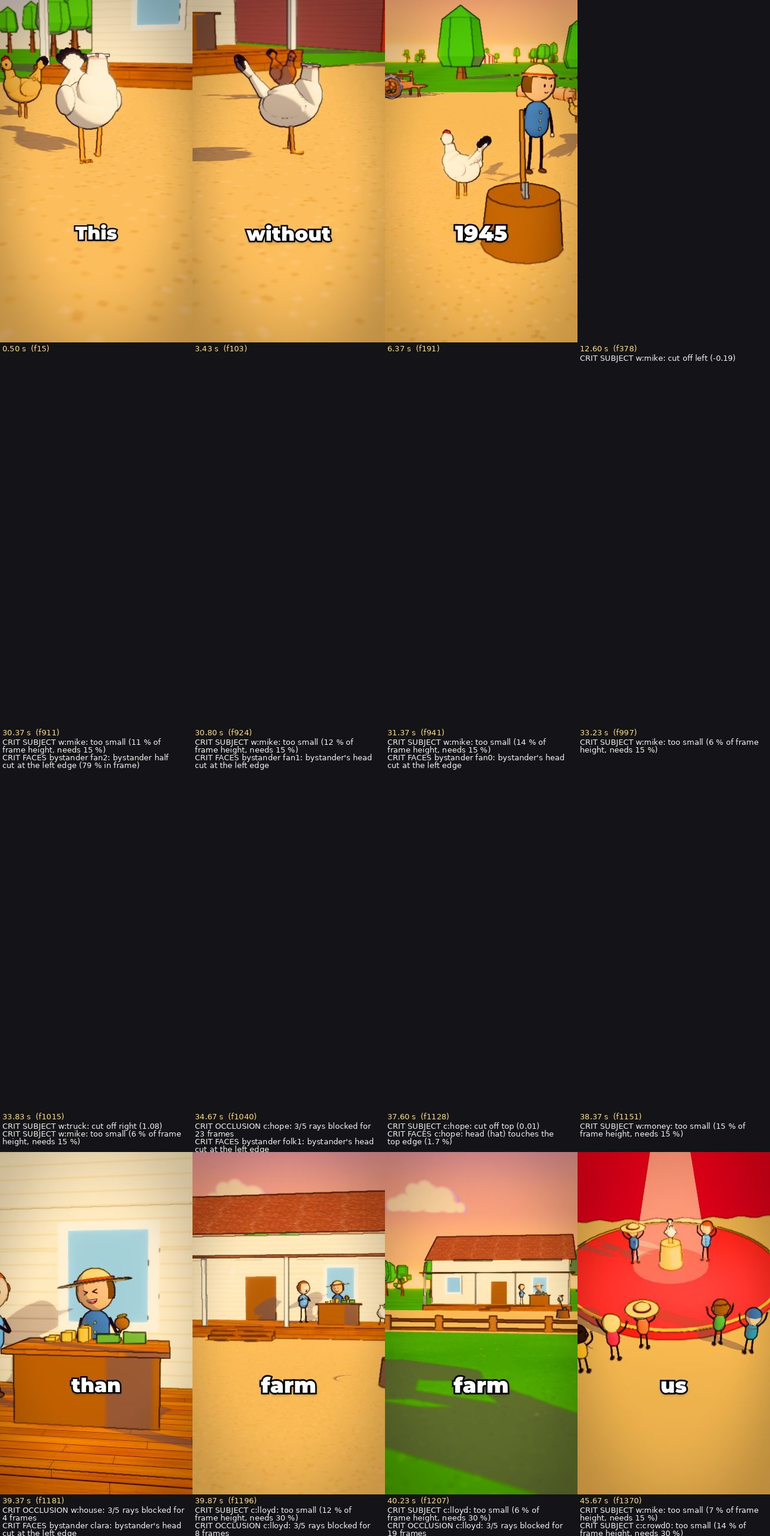
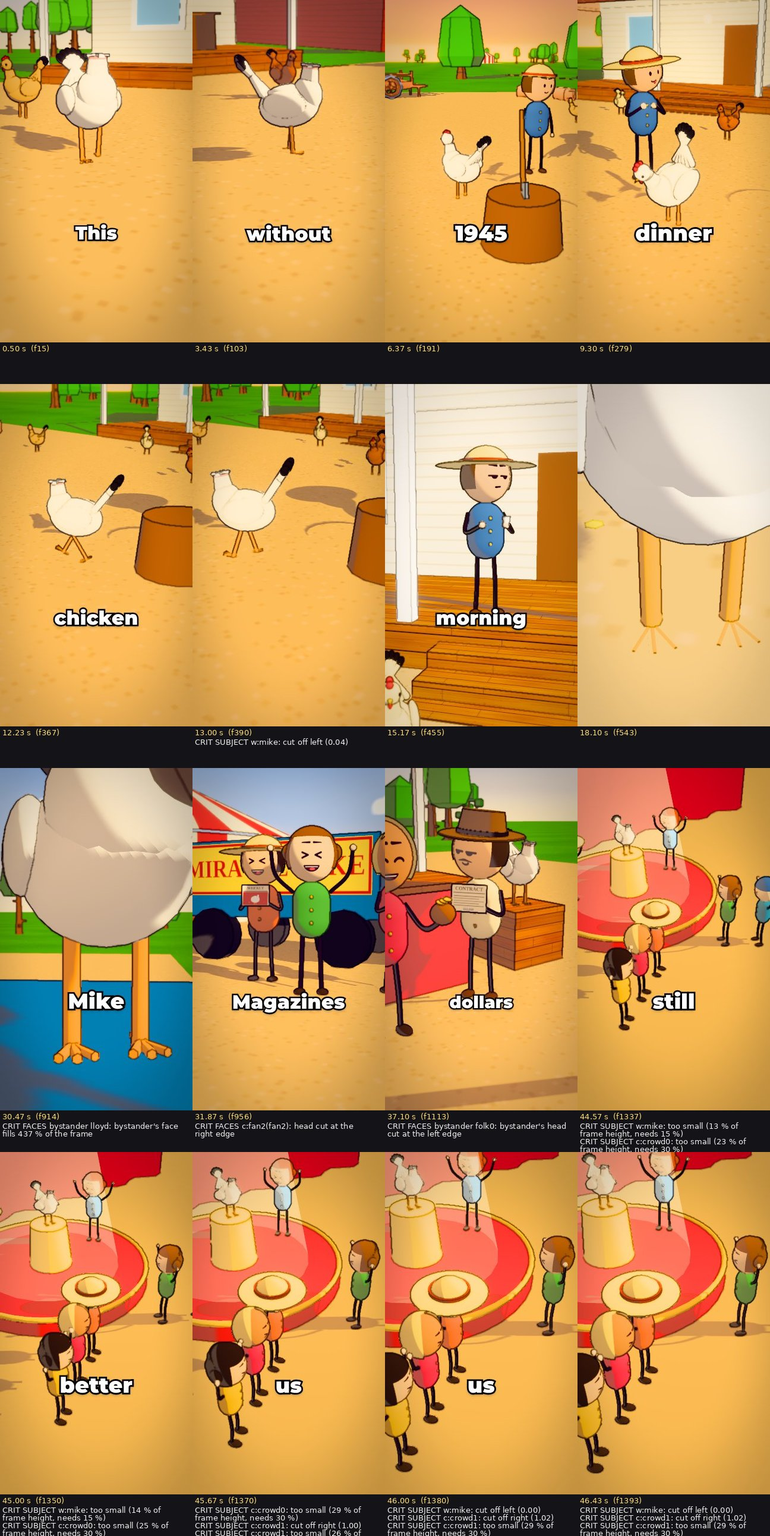
ChickenShort: guard round 3 fixes (no cab close-up, two fans, queue tighter, smaller crowd)
Claude-Session: https://claude.ai/code/session_012QSShdiUFjV1rrFH5PNZza

diff --git a/video/src/videos/chicken/stage.ts b/video/src/videos/chicken/stage.ts
@@ -91,8 +91,7 @@ const kitchen = (t: number, s: Stage) => {
 const truck = (t: number, s: Stage) => {
   if (!between(t, wt(7) - LEAD, wt(8) - LEAD)) return;
   const mags = after(t, 7, "Magazines"), x = truckX(t);
-  for (let i = 0; i < 3; i++) s.places.push(P(`fan${i}`, FOLK(i), { expr: mags ? "laugh" : "grin", gest: mags ? (i === 1 ? "cheer" : "paper") : "cheer", k: q((t * 2 + i * 0.3) % 1, 8), blink: blinkAt(t, 10 + i) }, mags && i !== 1 ? { paper: "mag" } : {}, V(TRUCK.x - 0.2 + i * 0.8, 0, TRUCK.z + 2.3 + (i % 2) * 0.45), { turn: (i - 1) * 0.3 }));
-  s.places.push(P("lloyd", LLOYD, { expr: "grin", gest: "wave", k: q((t * 2.5) % 1, 10), blink: blinkAt(t, 1) }, {}, V(x + 2.2, 1.0, TRUCK.z + 0.75), { yaw: 0.5 }));   // waving from the cab window
+  for (let i = 0; i < 2; i++) s.places.push(P(`fan${i}`, FOLK(i), { expr: mags ? "laugh" : "grin", gest: mags ? "paper" : "cheer", k: q((t * 2 + i * 0.3) % 1, 8), blink: blinkAt(t, 10 + i) }, mags ? { paper: "mag" } : {}, V(TRUCK.x + 0.3 + i * 0.85, 0, TRUCK.z + 2.3 + (i % 2) * 0.35), { turn: (i - 1) * 0.3 }));
   fill(s, V(x, 1.4, TRUCK.z), 1.0);
 };
 // line 8: the queue pays Hope Wade at the booth, 25 cents a look; "Insured...": he flourishes the contract
@@ -101,7 +100,7 @@ const booth = (t: number, s: Stage) => {
   const ins = after(t, 8, "Insured"), b = BOOTH;
   s.places.push(P("hope", HOPE, { expr: ins ? "smug" : "grin", gest: ins ? "paper" : "palm", blink: blinkAt(t, 5), headTilt: ins ? -6 : 4, look: -1 }, ins ? { paper: "contract" } : { coins: true }, V(b.x + 0.75, 0, b.z + 0.75), { turn: -0.35 }));
   for (let i = 0; i < 4; i++) { const pay = i === 0;
-    s.places.push(P(`folk${i}`, FOLK(i + 2), { expr: pay ? "grin" : i % 2 ? "shock" : "smile", gest: pay ? "palm" : i % 2 ? "point" : "hang", blink: blinkAt(t, 20 + i) }, { coins: pay }, V(b.x - 0.35 - i * 0.45, 0, b.z + 0.95 - i * 0.75), { turn: 0.35 + i * 0.05 })); }
+    s.places.push(P(`folk${i}`, FOLK(i + 2), { expr: pay ? "grin" : i % 2 ? "shock" : "smile", gest: pay ? "palm" : i % 2 ? "point" : "hang", blink: blinkAt(t, 20 + i) }, { coins: pay }, V(b.x + 0.05 - i * 0.45 - (i ? 0.35 : 0), 0, b.z + 1.0 - i * 0.75), { turn: 0.35 + i * 0.05 })); }
   fill(s, V(b.x - 0.6, 0, b.z), 1.1); void TENT;
 };
 // line 9: Lloyd counting the money on the porch table, Clara amazed; the farmhouse behind
@@ -117,7 +116,7 @@ const ring = (t: number, s: Stage) => {
   const r = RING, cheer = after(t, 10, "and"), clap = after(t, 10, "Chicken");
   s.places.push(P("lloyd", LLOYD, { expr: cheer ? "laugh" : "grin", gest: cheer ? "cheer" : "palm", k: q((t * 2) % 1, 8), blink: blinkAt(t, 1), look: 1 }, {}, V(r.x - 1.5, 0.4, r.z - 0.3), { turn: 0.15 }));
   s.places.push(P("clara", CLARA, { expr: cheer ? "laugh" : "smile", gest: cheer ? "cheer" : "clutch", k: q((t * 2 + 0.4) % 1, 8), blink: blinkAt(t, 2), look: -1 }, {}, V(r.x + 1.5, 0.4, r.z - 0.3), { turn: -0.15 }));
-  for (let i = 0; i < 6; i++) { const sd = i % 2 ? 1 : -1, row = Math.floor(i / 2);
+  for (let i = 0; i < 4; i++) { const sd = i % 2 ? 1 : -1, row = Math.floor(i / 2);
     s.places.push(P(`crowd${i}`, FOLK(i), { expr: cheer ? "laugh" : clap ? "grin" : "shock", gest: cheer ? "cheer" : clap ? "clap" : "hang", k: q((t * 2.6 + i * 0.27) % 1, 8), blink: blinkAt(t, 30 + i), look: 0 }, {}, V(r.x + sd * (0.95 + row * 0.65), 0, r.z + 2.85 + row * 0.45), { turn: -sd * 1.1 })); }
   warmK(s, V(r.x, 4.2, r.z + 1.2), 1.6); fill(s, V(r.x, 0.4, r.z), 1.0);
 };

diff --git a/video/src/videos/chicken/shots.ts b/video/src/videos/chicken/shots.ts
@@ -20,7 +20,7 @@ export const SHOT_SPECS: ShotSpec[] = [
   { t0: land(6), subjects: ["c:lloyd", "w:mike", "?c:clara"], size: "medium", move: "push", enter: "cut", note: "6 so Lloyd named him Mike" },
   { t0: land(6, "fed"), subjects: ["c:lloyd", "w:mike"], size: "medium", angle: "high", move: "push", enter: "cut", note: "6 fed him with an eyedropper, right down the neck" },
   { t0: land(7), subjects: ["w:mike", "?w:truck"], size: "medium", angle: "low", move: "push", enter: "cut", note: "7 soon Mike was a star (on the truck)" },
-  { t0: land(7, "Magazines"), subjects: ["c:fan0", "c:fan1", "?c:fan2"], size: "medium", move: "push", enter: "cut", note: "7 magazines (fans wave them)" },
+  { t0: land(7, "Magazines"), subjects: ["c:fan0", "c:fan1"], size: "medium", move: "push", enter: "cut", note: "7 magazines (fans wave them)" },
   { t0: wtn(7, "A", 1) - 2 / 30, subjects: ["w:mike", "?w:truck"], size: "medium", move: "drift", enter: "cut", note: "7 a national tour (the truck drives off)" },
   { t0: land(8), subjects: ["c:folk0", "c:hope"], size: "medium", move: "push", enter: "cut", note: "8 twenty-five cents a look: the queue paying" },
   { t0: land(8, "Insured"), subjects: ["c:hope"], size: "medium", move: "push", enter: "cut", note: "8 insured for ten thousand dollars (the contract)" },
@@ -28,5 +28,5 @@ export const SHOT_SPECS: ShotSpec[] = [
   { t0: land(9, "than"), subjects: ["c:lloyd", "?c:clara", "?w:mike"], size: "medium", angle: "low", move: "push", enter: "cut", note: "9 than the farm (the farmhouse behind)" },
   { t0: land(10), subjects: ["w:mike", "?c:lloyd", "?c:clara"], size: "medium", angle: "low", move: "push", enter: "cut", note: "10 Mike the Headless Chicken, in the spotlight" },
   { t0: land(10, "He"), subjects: ["w:mike"], size: "close", move: "push", enter: "cut", note: "10 he had no brain" },
-  { t0: land(10, "and"), subjects: ["w:mike", "c:crowd0", "c:crowd1"], size: "medium", angle: "high", move: "push", enter: "cut", note: "10 and still did better than most of us (crowd cheers)" },
+  { t0: land(10, "and"), subjects: ["w:mike", "c:crowd0", "?c:crowd1"], size: "medium", move: "push", enter: "cut", note: "10 and still did better than most of us (crowd cheers)" },
 ];

diff --git a/video/src/videos/chicken/story.ts b/video/src/videos/chicken/story.ts
@@ -55,7 +55,7 @@ export const mikeAt = (t: number): MikePose => {
   // line 3: by the block; after the (unseen) chop he walks off toward the camera-left, wings out
   if (t < wt(4) - LD) {
     if (t < T_CHOP()) return { p: V3v(CHOP.x - 0.6, 0, CHOP.z + 0.5), yaw: 0.2, phase: 0, walk: 0, peck: 0, headless: false, flap: 0 };
-    const u = clamp01((t - wt(3, "and") + 0.2) / 3.0), p = V3v(CHOP.x - 0.6 - 1.1 * u, 0, CHOP.z + 0.5 + 0.6 * u);
+    const u = clamp01((t - wt(3, "and") + 0.2) / 3.0), p = V3v(CHOP.x - 0.6 - 0.75 * u, 0, CHOP.z + 0.5 + 0.6 * u);
     return { p, yaw: -Math.PI / 2 + 0.7, phase: t * 1.7, walk: u > 0 && u < 1 ? 1 : 0.4, peck: -0.15, headless: true, flap: 0.25 + 0.15 * Math.sin(t * 6) };
   }
   // line 4: the next morning, pecking at the grain in front of the porch
